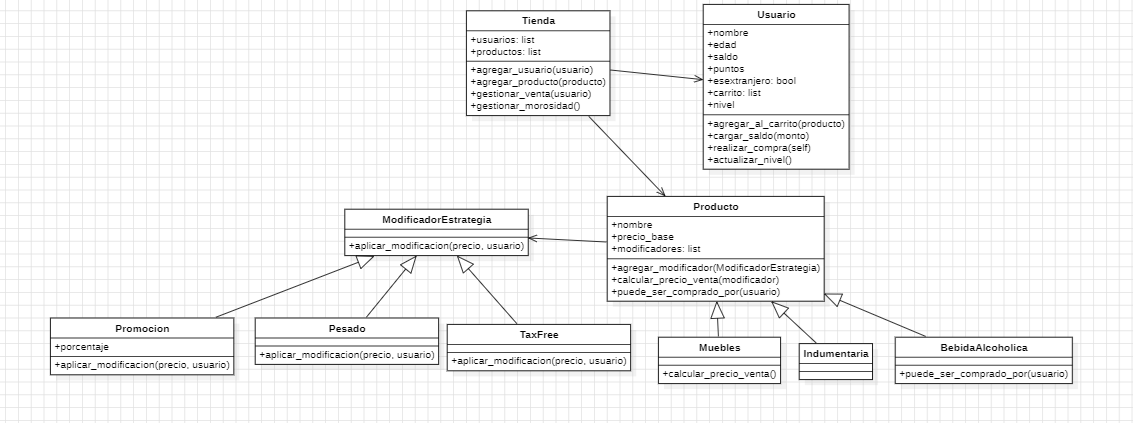
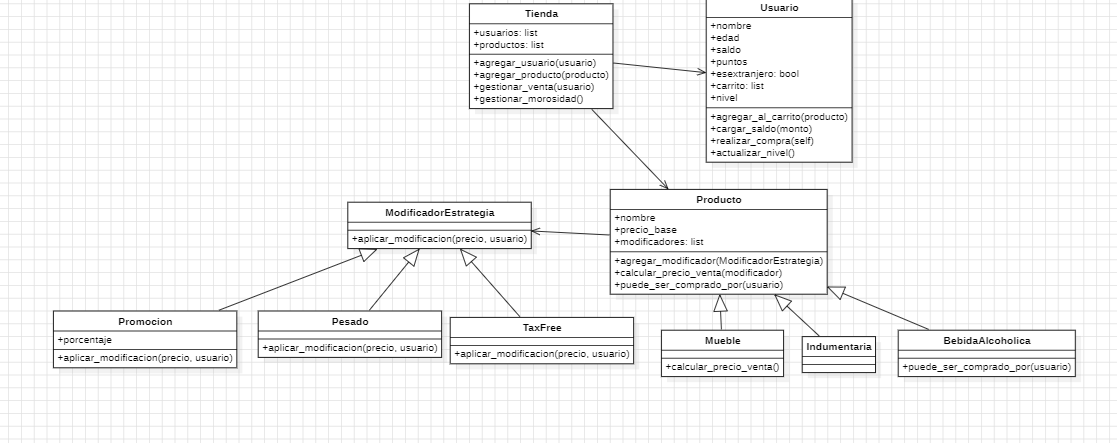
update

Changed region(s): [[0.0304, 0.0, 0.974, 0.922], [0.5479, 0.3381, 0.5783, 0.3688]]

diff --git a/test_ecommerce.py b/test_ecommerce.py
@@ -57,7 +57,7 @@ def test_mueble_pesado_precio():
 
 #3) Probar que usuario Bronce con 1 y $5000 de saldo cuando compra una mochila sumaria 1000 puntos y quedaría con saldo en $0.
 def test_usuario_bronce_compra_mochila():
-    usuario3 = Usuario("Carlos", 20, 5000, 0, False)
+    usuario3 = MockUsuario("Carlos", 20, 5000, 0, False)
     mochila3 = MockProducto("Mochila", 5000)
     usuario3.agregar_al_carrito(mochila3)
     usuario3.realizar_compra()
@@ -66,11 +66,17 @@ def test_usuario_bronce_compra_mochila():
 
 #4) Probar que el negocio aplique correctamente la penalización de morosidad.
 def test_aplicar_morosidad():
-    pass
+    usuario4 = MockUsuario("Luis", 25, -100, 6000, False)
+    usuario4.aplicar_morosidad()
+    assert usuario.puntos == 5900
 
 #5) Probar que usuario Bronce con 1 punto pase a Plata al darle 5000 puntos.
 def test_usuario_bronce_a_plata():
-    pass
+    usuario5 = MockUsuario("Maria", 22, 10000, 4900, False)
+    producto5 = MockProducto("Libro", 1000)
+    usuario5.agregar_al_carrito(producto5)
+    usuario5.realizar_compra()
+    #falta assert
 
 #6) Probar que usuario Bronce con saldo de $4999 no puede comprar una mochila de $5000
 def test_usuario_bronce_saldo_insuficiente():
